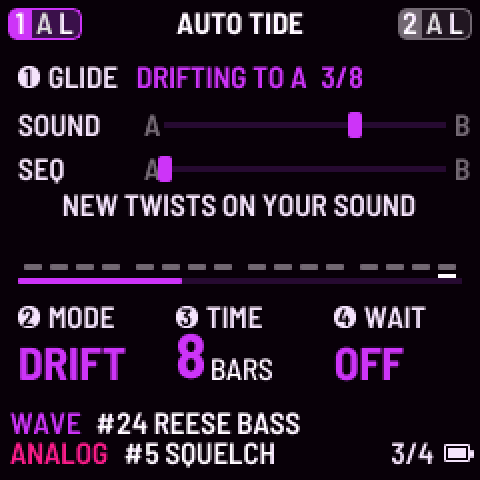
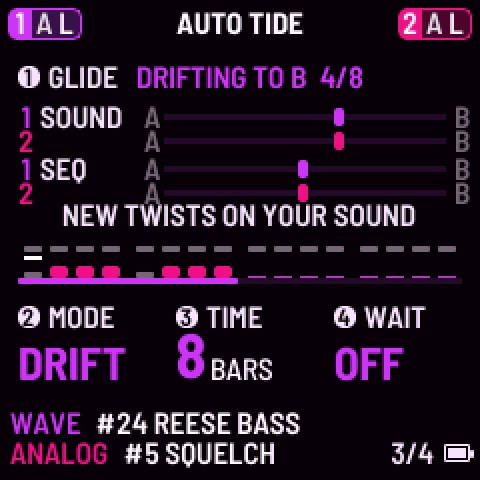
README: AUTO TIDE screenshot with both parts gliding; ALGORITHM BOTH in the how-to

diff --git a/README.md b/README.md
@@ -20,15 +20,15 @@ It is made for playing the FM-1 as a **background**: set a tide going, then play
 
 | AUTO TIDE | MORPH SETTINGS | MORPH, mid-glide |
 |:---:|:---:|:---:|
-| <img src="docs/tide/auto-tide.png" width="260" alt="AUTO TIDE page: DRIFTING TO A 3/8, the SOUND and SEQ faders, MODE DRIFT, TIME 8 BARS, WAIT OFF"> | <img src="docs/tide/morph-settings.png" width="260" alt="MORPH SETTINGS page: TARGET BOTH, VARY BARS 4 + 8, ROLL MUSIC, ARP, PITCH, WASH LEVEL"> | <img src="docs/tide/morph-gliding.png" width="260" alt="MORPH page while a tide plays: the fader at 62"> |
-| The glide's state on knob 1's line (here *drifting to A, bar 3 of 8*), both faders, the steps as they play, and MODE / TIME / WAIT on knobs 2 to 4. | What the tide moves and how a new End B is rolled. Knob 1 picks the row, OCT+ / OCT- change it. | DUELL's own MORPH page follows the glide, so you see where the sound is between A and B. |
+| <img src="docs/tide/auto-tide.png" width="260" alt="AUTO TIDE page with both parts: DRIFTING TO B 4/8, the SOUND and SEQ faders of parts 1 and 2, MODE DRIFT, TIME 8 BARS, WAIT OFF"> | <img src="docs/tide/morph-settings.png" width="260" alt="MORPH SETTINGS page: TARGET BOTH, VARY BARS 4 + 8, ROLL MUSIC, ARP, PITCH, WASH LEVEL"> | <img src="docs/tide/morph-gliding.png" width="260" alt="MORPH page while a tide plays: the fader at 62"> |
+| The glide's state on knob 1's line (here *drifting to B, bar 4 of 8*), with both parts gliding: each part's SOUND and SEQ fader and its steps as they play, and MODE / TIME / WAIT on knobs 2 to 4. | What the tide moves and how a new End B is rolled. Knob 1 picks the row, OCT+ / OCT- change it. | DUELL's own MORPH page follows the glide, so you see where the sound is between A and B. |
 
 *Screenshots from the [web emulator](https://pssdrnk-cmyk.github.io/DUELL-TIDE/emu/).*
 
 ## Play a tide in four steps
 
 1. Press **HOME** until **AUTO TIDE** shows. HOME's round is now **MORPH → MORPH SETTINGS → AUTO TIDE → MODE**.
-2. Pick a **MODE** with knob 2, a trip length (**TIME**, in bars) with knob 3 and a rest at each end (**WAIT**) with knob 4.
+2. Pick a **MODE** with knob 2, a trip length (**TIME**, in bars) with knob 3 and a rest at each end (**WAIT**) with knob 4. Turn **ALGORITHM** to BOTH to glide both parts at once.
 3. Twist **knob 1** right (to B) or left (to A) and press **PLAY**. While the music plays, the glide starts on the next bar.
 4. Play over it. **STOP** pauses the glide and PLAY goes on from there. Twist knob 1 while it glides and it stops where it is; the sound stays.
 
